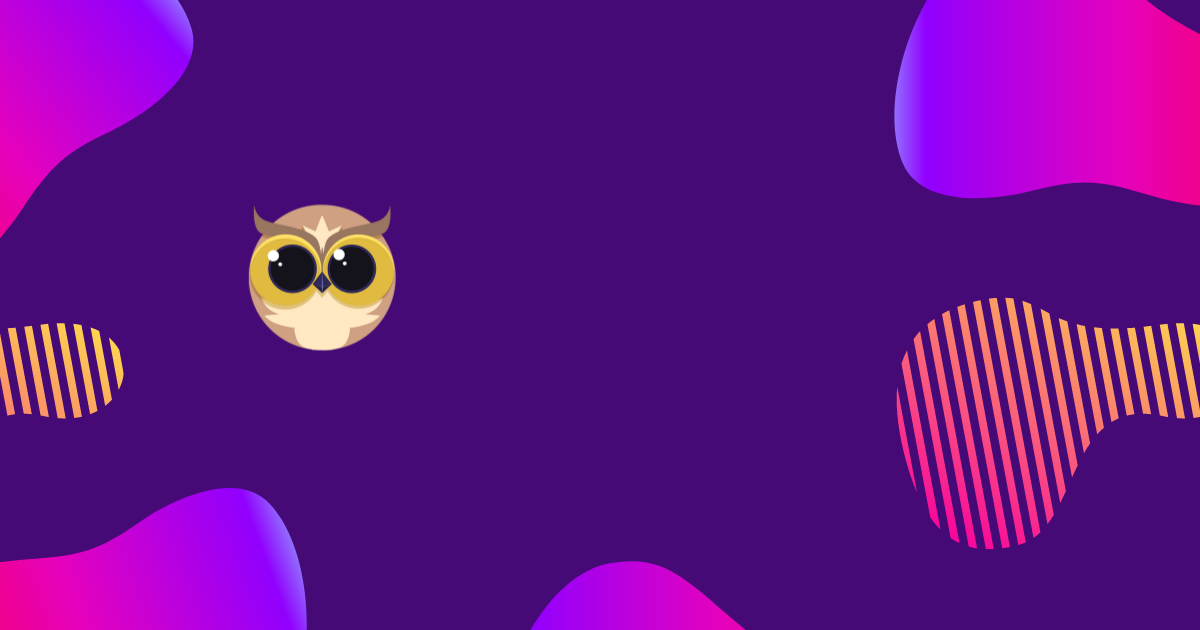
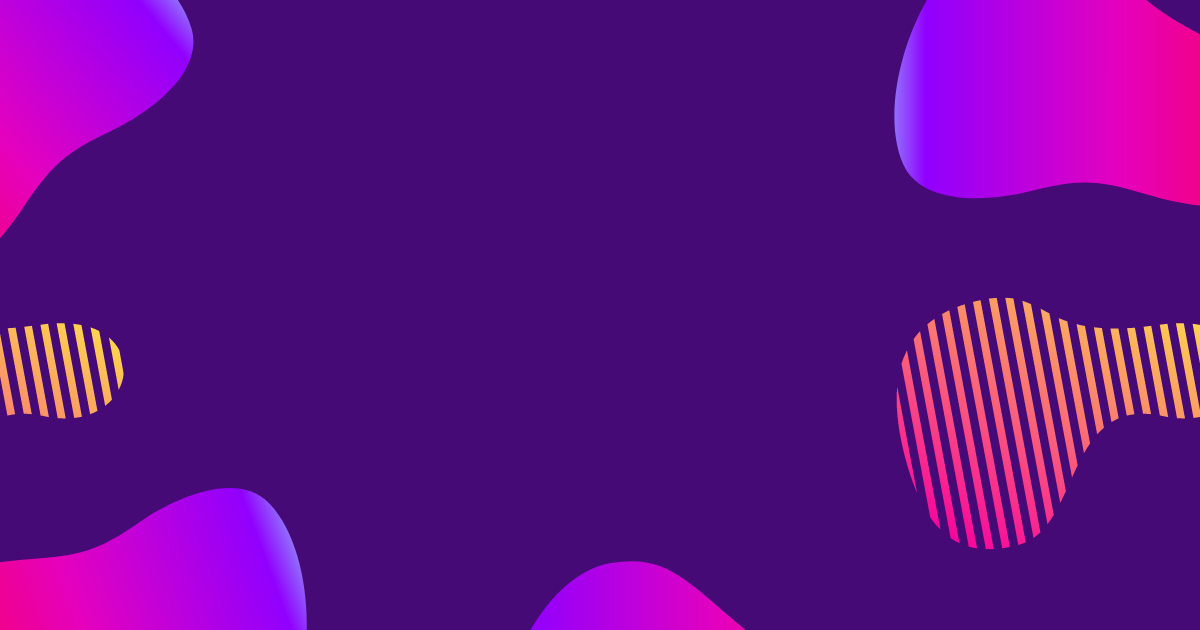
l

Changed region(s): [[0.185, 0.3016, 0.3392, 0.573]]

diff --git a/.eleventy.js b/.eleventy.js
@@ -8,16 +8,18 @@ const path = require('path');
 const { createCanvas, loadImage } = require('canvas');
 const { formatTitle } = require('./tools/format-title');
 const createSocialImageForArticle = (input, output) =>
-	new Promise((resolve, reject) => {
+	new Promise(async (resolve, reject) => {
 		// read data from input file
+		try {
+			
+	
 		const data = fs.readFileSync(input, {
 			encoding: 'utf-8'
 		});
 
-        const helperbirdLogo = './tools/images/helperbird-logo.png';
 		// get title from file data
 		const [, title] = data.match(/cardTitle:(.*)/);
-
+		console.log(title);
 		const post = {
 			title: title,
 			author: 'Helperbird.com'
@@ -27,14 +29,14 @@ const createSocialImageForArticle = (input, output) =>
 		const height = 627;
 		// Set the coordinates for the image position.
 		const imagePosition = {
-			w: 100,
-			h: 100,
-			x: 550,
-			y: 75
+			w: 70,
+			h: 70,
+			x: 455,
+			y: 475
 		};
 		// Because we are putting the image near the top (y: 75)
 		// move the title down.
-		const titleY = 300;
+		const titleY = 260;
 		const titleLineHeight = 100;
 		// Bring up the author's Y value as well to make it all
 		// fit together nicely.
@@ -43,12 +45,18 @@ const createSocialImageForArticle = (input, output) =>
 		const canvas = createCanvas(width, height);
 		const context = canvas.getContext('2d');
 
-		context.fillStyle = '#f6f5e7';
+		const splashSolid = await loadImage('./tools/images/splash-1.png');
+		const splashStriped = await loadImage('./tools/images/splash-2.png');
+		const helperbirdLogo = await loadImage('./tools/images/helperbird-logo.png');
+		
+		
+
+		context.fillStyle = '#450a75';
 		context.fillRect(0, 0, width, height);
 
 		context.font = "bold 50pt 'PT Sans'";
 		context.textAlign = 'center';
-		context.fillStyle = '#111827';
+		context.fillStyle = '#ffffff';
 
 		const titleText = formatTitle(post.title);
 		context.fillText(titleText[0], 600, titleY);
@@ -56,33 +64,38 @@ const createSocialImageForArticle = (input, output) =>
 			context.fillText(titleText[1], 600, titleY + titleLineHeight);
 		}
 
-		context.font = "30pt 'PT Sans'";
+		context.font = "25pt 'PT Sans'";
 		context.textAlign = 'center';
-		context.fillStyle = '#da2877';
-		context.fillText(`${post.author}`, 600, authorY);
+		context.fillStyle = '#ffffff';
+		context.fillText(`${post.author}`, 650, authorY);
 
-		// Load the logo file and then render it on the screen.
-		loadImage(helperbirdLogo).then((image) => {
-			console.log(image);
-			const { w, h, x, y } = imagePosition;
-			context.drawImage(image, x, y, w, h);
 
-			const outputDir = path.dirname(output);
-			if (!fs.existsSync(outputDir)) {
-				fs.mkdirSync(outputDir, { recursive: true });
-			}
+		const { w, h, x, y } = imagePosition;
+		context.drawImage(helperbirdLogo, x, y, w, h);
+		context.drawImage(splashSolid,1000,0, 403,409);
+		context.drawImage(splashSolid,200,500, 403,409);
+		context.drawImage(splashStriped,-80, 48, 348, 252);
+		context.drawImage(splashStriped,1000, 400, 348, 252);
+		context.drawImage(splashStriped,100, 600, 348, 252);
 
-			// write the output image
+		const outputDir = path.dirname(output);
+		if (!fs.existsSync(outputDir)) {
+			fs.mkdirSync(outputDir, { recursive: true });
+		}
 
-			const stream = fs.createWriteStream(output);
-			stream.on('finish', resolve);
-			stream.on('error', reject);
-			canvas
-				.createJPEGStream({
-					quailty: 1.0
-				})
-				.pipe(stream);
-		});
+		// write the output image
+
+		const stream = fs.createWriteStream(output);
+		stream.on('finish', resolve);
+		stream.on('error', reject);
+		canvas
+			.createJPEGStream({
+				quailty: 1.0
+			})
+			.pipe(stream);
+		} catch (error) {
+				console.log(error);
+		}
 	});
 
 const manifest = {

diff --git a/tools/format-title.js b/tools/format-title.js
@@ -21,7 +21,7 @@ exports.formatTitle = (title) => {
 	let output = [];
 	// If the title is 40 characters or longer, look to add ellipses at the end of
 	// the second line.
-	if (title.length >= 40) {
+	if (title.length >= 50) {
 		const firstLine = getMaxNextLine(title);
 		const secondLine = getMaxNextLine(firstLine.remainingChars);
 		output = [firstLine.line];
